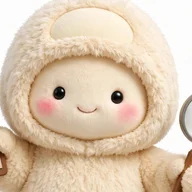
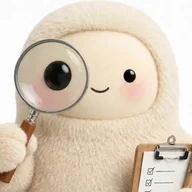
Neues Maskottchen (Lupe + Klemmbrett), Hintergrund transparent

diff --git a/src/components/InspectionApp.tsx b/src/components/InspectionApp.tsx
@@ -192,8 +192,8 @@ export default function InspectionApp() {
               proves every finding with a mask, and computes your fair share from the component&apos;s remaining value.
             </p>
           </div>
-          {/* eslint-disable-next-line @next/next/no-img-element -- statisches Maskottchen, weisser Hintergrund per multiply ausgeblendet */}
-          <img src="/mascot/inspector.webp" alt="Fair Deposit inspector mascot" width={180} height={180} className="hidden h-44 w-44 shrink-0 mix-blend-multiply sm:block" />
+          {/* eslint-disable-next-line @next/next/no-img-element -- statisches Maskottchen mit transparentem Hintergrund */}
+          <img src="/mascot/inspector.webp" alt="Fair Deposit inspector mascot" width={180} height={180} className="hidden h-44 w-44 shrink-0 sm:block" />
         </section>
       )}
 
